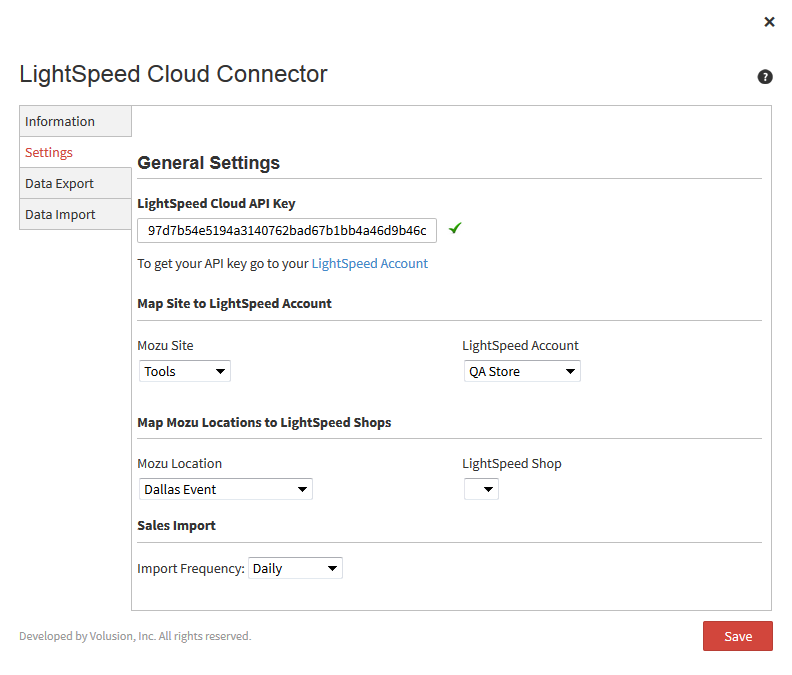
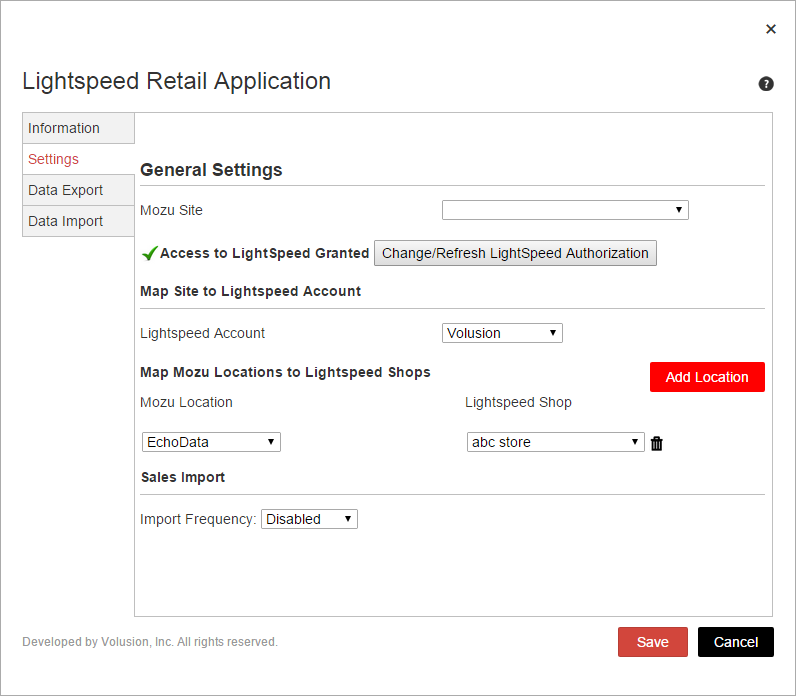
Uploading latest LS doc to Preview folder

diff --git a/Preview/LightSpeed/Mozu-LightSpeed-App.htm b/Preview/LightSpeed/Mozu-LightSpeed-App.htm
@@ -113,7 +113,7 @@
 		<!--Side Navigation TOC -->
 		<div class="row">
 		<div class="landing-title">
-			<h1>LightSpeed Cloud Connector Configuration Guide</h1>	
+			<h1>LightSpeed Retail Connector Configuration Guide</h1>	
 		</div>
 			<div class="col-md-3" >
 				<nav class="bs-docs-sidebar" >
@@ -124,7 +124,8 @@
 							<li><a href="#configapp">Configure the App</a></li>
 							<li><a href="#enable">Enable the App</a></li>
 							<li><a href="#exportmozu">Export Data from Mozu</a></li>
-							<li><a href="#importlightspeed">Export Data from LightSpeed</a></li>
+							<li><a href="#importlightspeed">Import Data from LightSpeed</a></li>
+							
 					</ul>
 				</nav>
 			</div>
@@ -133,94 +134,102 @@
                 <!-- Documentation content -->
 				<section id="intro">
 					<h2>Welcome to LightSpeed and Mozu</h2>
-					<p><a href="http://www.lightspeedpos.com/retail/pos-system/">LightSpeed Cloud</a> provides services to manage your inventory, point of sale, and reporting through your eCommerce storefront. The cloud version of the LightSpeed application and service integrates with the cloud, fully moving all management into the cloud space. Your customers can browse and purchase products from any storefront on any device using multiple forms of payment (cash, credit, debit, in-store credit, gift cards, and more). The services integrate with your inventory procedures, records, and sales processors to complete payments and sync inventory quantities.</p>
-					<p><a href="http://www.mozu.com">Mozu</a> offers an app to leverage LightSpeed Cloud services to manage your orders, sync your inventory, and extend your management systems. Through the app, you can map Mozu locations with LightSpeed shops, set import frequencies for Mozu, and manage data imports and exports. Exported data supports Products/Categories, Customers, and Discounts from Mozu into LightSpeed. After modifying your LightSpeed Cloud inventory configurations, you can import data into Mozu to sync orders and inventory amounts.  </p>
-					<p><b>Note:</b> This app only support LightSpeed Cloud of the LightSpeed products.</p>
+					
+					<p><a href="http://www.lightspeedpos.com/retail/pos-system/">LightSpeed Retail</a> provides services to manage your inventory, point of sale, and reporting through your eCommerce storefront. Customers can browse and purchase products from any storefront on any device using multiple forms of payment (cash, credit, debit, in-store credit, gift cards, and more).</p>
+					
+					<p><a href="http://www.mozu.com">Mozu</a> offers an app to leverage LightSpeed Retail services to manage your orders, sync your inventory, and extend your management systems. Through the app, you can map Mozu locations with LightSpeed shops, set import frequencies for Mozu, and manage data imports and exports. Exported data supports Products/Categories, Customers, and Discounts from Mozu into LightSpeed. After modifying your LightSpeed Retail inventory configurations, you can import data into Mozu to sync orders and inventory amounts.  </p>
+					
+					<p><b>Note:</b> This app only supports the LightSpeed Retail product.</p>
+
 				</section>
 				<section id="install">
-					<h2 >Install LightSpeed Cloud Connector on Your Tenant</h2>
-                        <p>After purchasing the LightSpeed Cloud Connector by Mozu, call your sales or professional services representative and request installation on your tenant. Mozu staff will install the app to your tenant, making it available for further configuration and usage in your storefront.</p>
-                        <p>This custom app integrates LightSpeed Cloud with Mozu to support the following:</p>
+					<h2 >Install Mozu LightSpeed Retail Application on Your Tenant</h2>
+                        <p>After purchasing the Mozu LightSpeed Retail Application, call your sales or professional services representative and request installation on your tenant. Mozu staff will install the app to your tenant, making it available for further configuration and usage in your storefront.</p>
+                        
+                        <p>This custom app integrates LightSpeed Retail with Mozu to support the following:</p>
+                        
                         <ul>
-                            <li>Sync your LightSpeed Cloud account with Mozu to manage orders and inventory as shoppers make purchases through the storefront.</li>
-                            <li>Update contacts, orders, inventory, and products with categories between both systems to leverage features in Mozu and LightSpeed Cloud.</li>
-							<li>Allow you to continue using LightSpeed Cloud reporting and analytics against Mozu products and purchases.</li>
+                            <li>Export and import information from Mozu to your LightSpeed Retail account to manage orders and inventory as shoppers make purchases through the storefront.</li>
+                            <li>Update contacts, orders, inventory, and products with categories between both systems to leverage features in Mozu and LightSpeed Retail.</li>
+							<li>Allow you to continue using LightSpeed Retail reporting and analytics against Mozu products and purchases.</li>
                         </ul>
 						 
 						<p>When a shopper submits an order and completes payment, the following occurs between Mozu and the LightSpeed app:</p>
+						
 						<ul>
-						<li>LightSpeed Cloud verifies and processes the order inventory amounts and payment information. If the inventory exists per the entered requests (in-store, online to deliver at home, etc) and the payment information processes, LightSpeed Cloud updates the order status and inventory amounts.</li>
-						<li>At the configured time and frequency per day, the completed order data is imported into Mozu from LightSpeed Cloud.</li>
+						<li>LightSpeed Retail verifies and processes the order inventory amounts and payment information. If the inventory exists per the entered requests (in-store, online to deliver at home, etc) and the payment information processes, LightSpeed Retail updates the order status and inventory amounts.</li>
+						<li>At the configured time and frequency per day, the completed order data is imported into Mozu from LightSpeed Retail.</li>
 						<li>Mozu updates all inventory based on the configured locations, amounts, and purchase/delivery requirements. For example, inventory from a warehouse for online delivery versus in-store pickup from an in-store inventory of a brick and mortar storefront.</li>
-						<li>As data updates in Mozu, it is exported to LightSpeed Cloud including changes to products and categories, customer entries, and discounts. </li>
-						<li>LightSpeed Cloud updates all in-stock inventory per location, available discounts, and customer data for handling further orders through the storefront(s).</li>
+						<li>As data updates in Mozu, it is exported to LightSpeed Retail, including changes to products and categories, customer entries, and discounts. </li>
 						</ul>
 						
                         <h3 id="configreq">Configuration Requirements</h3>
-						 <p>To configure LightSpeed Cloud to work seamlessly with Mozu, you need specific items installed and settings provided. This guide details each step from requirements to final configuration for reviewing order for legitimacy and fraud potential.</p>
+						 <p>To configure LightSpeed Retail to work seamlessly with Mozu, you need specific items installed and settings provided. This guide details each step from requirements to final configuration for reviewing order for legitimacy and fraud potential.</p>
                        
-                        <p>You must meet the following criteria to configure the LightSpeed Cloud Connector app:</p>
+                        <p>You must meet the following criteria to configure the LightSpeed Retail Connector app:</p>
                         <ul>
-                            <li>You must have the LightSpeed Cloud Connector by Mozu installed into your tenant.</li>
-                            <li>You must have an active <a href="https://cloud.merchantos.com/login.html">LightSpeed Cloud</a> account and obtain your LightSpeed Cloud API Key.</li>
+                            <li>You must have the Mozu LightSpeed Retail Application installed on your tenant.</li>
+                            <li>You must have an active <a href="https://cloud.merchantos.com/login.html">LightSpeed Retail</a> account.</li>
                         </ul>
 				</section>
 				<section id="configapp">				
-                        <h2 >Configure the Application</h2>
-						<p>To integrate your LightSpeed services with Mozu, you will modify the app settings using your LightSpeed information and add a widget to your storefront theme. You may need to save information to add to these pages from LightSpeed and within Mozu. Keep a notepad open as needed to help!</p>
+                        <h2>Configure the Application</h2>
+						<p>To integrate your LightSpeed services with Mozu, you must authorize Mozu to access your LightSpeed account. </p>
                         <ol>
-                            <li>In the Mozu Admin page of your store, select <b>Settings</b>&gt;<b>Applications</b>.</li>
-                            <li>Double-click <b>LightSpeed Connector</b>.</li>
+                            <li>From the Mozu Admin page, select <b>Settings</b> &gt; <b>Applications</b>.</li>
+                            <li>Click the <b>Mozu LightSpeed Retail Application</b>.</li>
                             <li>Click the <b>Configuration</b> link to open configuration settings.</li>
-							<li>On the Settings tab, enter your LightSpeed Cloud API Key.<br/>
-							<b>Note:</b> Need your ID? Click the <a href="https://cloud.merchantos.com/login.html">LightSpeed Cloud</a> link on the tab, login, and copy the API Key.<br/>
+							<li>On the Settings tab, click <b>Add LightSpeed Account</b>.</li>
+							<li>Select a Mozu Site to link to a LightSpeed Retail account, and then click the <b>Authorize Mozu to Access LightSpeed</b> button.</li>
+							<li>On the LightSpeed Retail login page, sign in with your LightSpeed credentials to authorize Mozu to use your LightSpeed Retail account.</li>
+							<li>Once you've authorized Mozu to use your LightSpeed Retail account, map your Mozu site to your LightSpeed Account. Under the <em>Map Site to LightSpeed Account</em> header, use the drop-down menus to select your Mozu Site and the appropriate LightSpeed Account.<br/>
 							<img src="lightspeed-settings.png" class="img-mozu"/></li>
-							<li>In the Map Site to LightSpeed Account section, select a <b>Mozu Site</b> and map it to a <b>LightSpeed Account</b> from the drop-down menus.</li>
-							<li>In the Map Mozu Locations to LightSpeed Shops, select the <b>Mozu Location</b> and map it to a LightSpeed Shop from the drop-down menus.</li>
-							<li>Selet the <b>Import Frequency for Sales Import</b>. This sets the amount of times per day LightSpeed exports data to Mozu. Options include Disabled, minutes 1 to 30, 1 hour, 8 hours, 12 hours, and Daily.</li>
-							<li>Click <b>Save</b>. This step connects and configures Mozu to your LightSpeed Cloud account.</li>
+							<li>Under <em>Map Mozu Locations to LightSpeed Shops</em>, select the <b>Mozu Location</b> and map it to a LightSpeed Shop from the drop-down menus.</li>
+							<li>Select the <b>Import Frequency for Sales Import</b>. This sets the amount of times per day LightSpeed exports data to Mozu. Options include Disabled, minutes 1 to 30, 1 hour, 8 hours, 12 hours, and Daily.</li>
+							<li>Click <b>Save</b>. This step connects and configures Mozu to your LightSpeed Retail account.</li>
 						</ol>
                         						
 				</section>
 				<section id="enable">
-                        <h2 >Enable LightSpeed Cloud Connector</h2>
+                        <h2>Enable Mozu LightSpeed Retail Application</h2>
                         <ol>
-                            <li>On the Mozu Admin top bar, select <b>Settings > Applications</b>.</li>
-                            <li>Double-click <b>LightSpeed Connector</b>.</li>
+                            <li>On the Mozu Admin top bar, select <b>Settings</b> &gt; <b>Applications</b>.</li>
+                            <li>Click <b>Mozu LightSpeed Retail Application</b>.</li>
                             <li>Click <b>Enable App</b> on the LightSpeed page.</li>
                         </ol>
 				</section>
 				<section id="exportmozu">
-                        <h2 >Export Data From Mozu to LightSpeed Cloud</h2>
-						<p>With your Mozu and LightSpeed Cloud accounts connected and configured, you should perform an export of data to LightSpeed. The data sets the available products, inventory amounts, and data for orders including customer records and available discounts.</p>
-						<p>Exports are not on a scheduled timeline. As you make changes to your catalog, customer records, and discounts, you should enact an export.</p>
+                        <h2>Export Data From Mozu to LightSpeed Retail</h2>
+						<p>With your Mozu and LightSpeed Retail accounts connected and configured, you should perform an export of data to LightSpeed. This data sets the available products, inventory amounts, and data for orders including customer records and available discounts.</p>
+						<p>As you make changes to your catalog, customer records, and discounts, the event system keeps LightSpeed updated with add, delete, and update information.</p>
 						<p>The tab displays the selectable data types to export, a manual export button, and a refresh option for the table. The table displays an entry of exported data per data type with the date/time, number of records exported, status, and a linked error log. If no errors occur, the link is 0 without data to display. The status options include in-progress, failed, and completed.</p>
                         <ol>
-                            <li>On the Mozu Admin top bar, select <b>Settings > Applications</b>.</li>
-                            <li>Double-click <b>LightSpeed Connector</b>.</li>
-                            <li>Click the <b>Configuration link</b> to open configuration settings. </li>
+                            <li>On the Mozu Admin top bar, select <b>Settings</b> &gt; <b>Applications</b>.</li>
+                            <li>Click <b>Mozu LightSpeed Retail Application</b>.</li>
+                            <li>Click the Configuration link to open configuration settings. </li>
 							<li>Click the <b>Data Export</b> tab.</li>
-							<li>Select what data you want to export to LightSpeed Cloud from Mozu: Products/Categories, Customers, and/or Discounts. We recommend selecting all options. </li>
+							<li>Select what data you want to export to LightSpeed Retail from Mozu: Products/Categories, Customers, and/or Discounts. Selecting all options is recommended. </li>
 							<li>Click <b>Export Now</b>.</li>
 							<li>An export job begins for each data type, posting an entry in the table with the date/time, number of records exported, status, and a linked error log. <br/>
 							<img src="lightspeed-export.png" class="img-mozu"/></li>
                         </ol>
 				</section>
 				<section id="importlightspeed">
-                        <h2 >Import Data From LightSpeed Cloud to Mozu</h2>
-						<p>The data imported from LightSpeed Cloud is maintained on an automated schedule. This schedule is determined by the frequency configuration in the Settings tab. The next scheduled import is displayed with a date and time. The imported data is for completed sales which updates order, customer, and inventory data in Mozu. </p>
+                        <h2 >Import Data From LightSpeed Retail to Mozu</h2>
+						<p>The data imported from LightSpeed Retail is maintained on an automated schedule. This schedule is determined by the frequency configuration in the Settings tab. The next scheduled import is displayed with a date and time. The imported data is for completed sales which updates order, customer, and inventory data in Mozu. </p>
 						<p>The table includes an entry for every import listed by date and time. The number of sales is listed. If no sales are imported, the amount is listed as 0. The status is displayed as in progress, failed, or completed. A linked report of errors provides details on each import. </p>
 						<p>You can import data at the scheduled time or on-demand by clicking <b>Import Now</b>.</p>
                         <ol>
-                            <li>On the Mozu Admin top bar, select <b>Settings > Applications</b>.</li>
-                            <li>Double-click <b>LightSpeed Connector</b>.</li>
+                            <li>On the Mozu Admin top bar, select <b>Settings</b> &gt; <b>Applications</b>.</li>
+                            <li>Click <b>Mozu LightSpeed Retail Application</b>.</li>
                             <li>Click the Configuration link to open configuration settings. </li>
 							<li>Click the <b>Data Import</b> tab.</li>
 							<li>Click <b>Import Now</b>.</li>
-							<li>An import job begins from LightSpeed Cloud, posting an entry in the table with the date/time, number of sales, status, and a linked error log. <br/>
+							<li>An import job begins from LightSpeed Retail, posting an entry in the table with the date/time, number of sales, status, and a linked error log. <br/>
 							<img src="lightspeed-import.png" class="img-mozu"/></li>
                         </ol>
 				</section>
+				
 						</div>
                     </div>
                 </div>
@@ -233,7 +242,7 @@
                             <a href="http://www.mozu.com" target="_blank"><img src="http://www.mozu.com/sites/all/themes/mozu_aurora/logo.png" style="padding-top:7px;"/></a>
                 </div>
                 <div class="pull-right footer__icons" style="padding-right:40px;">
-				<a href="LightSpeedCloudConnector_ConfigurationGuide.pdf"><button type="button" class="btn btn-primary btn-lg"><i class="fa fa-file-pdf-o"></i></button></a><a href="http://www.mozu.com/ecommerce-app-center" target="_blank"><button type="button" class="btn btn-primary btn-lg"><i class="fa fa-code-fork"></i></button></a><a href="http://www.mozu.com/contact"><button type="button" class="btn btn-primary btn-lg"><i class="fa fa-comments-o"></i></button></a><a href="http://www.mozu.com/contact"><button type="button" class="btn btn-primary btn-lg"><i class="fa fa-copyright"></i></button></a>
+				<a href="http://www.mozu.com/ecommerce-app-center" target="_blank"><button type="button" class="btn btn-primary btn-lg"><i class="fa fa-code-fork"></i></button></a><a href="http://www.mozu.com/contact"><button type="button" class="btn btn-primary btn-lg"><i class="fa fa-comments-o"></i></button></a><a href="http://www.mozu.com/contact"><button type="button" class="btn btn-primary btn-lg"><i class="fa fa-copyright"></i></button></a>
                 </div>
             </div>
         </footer>
